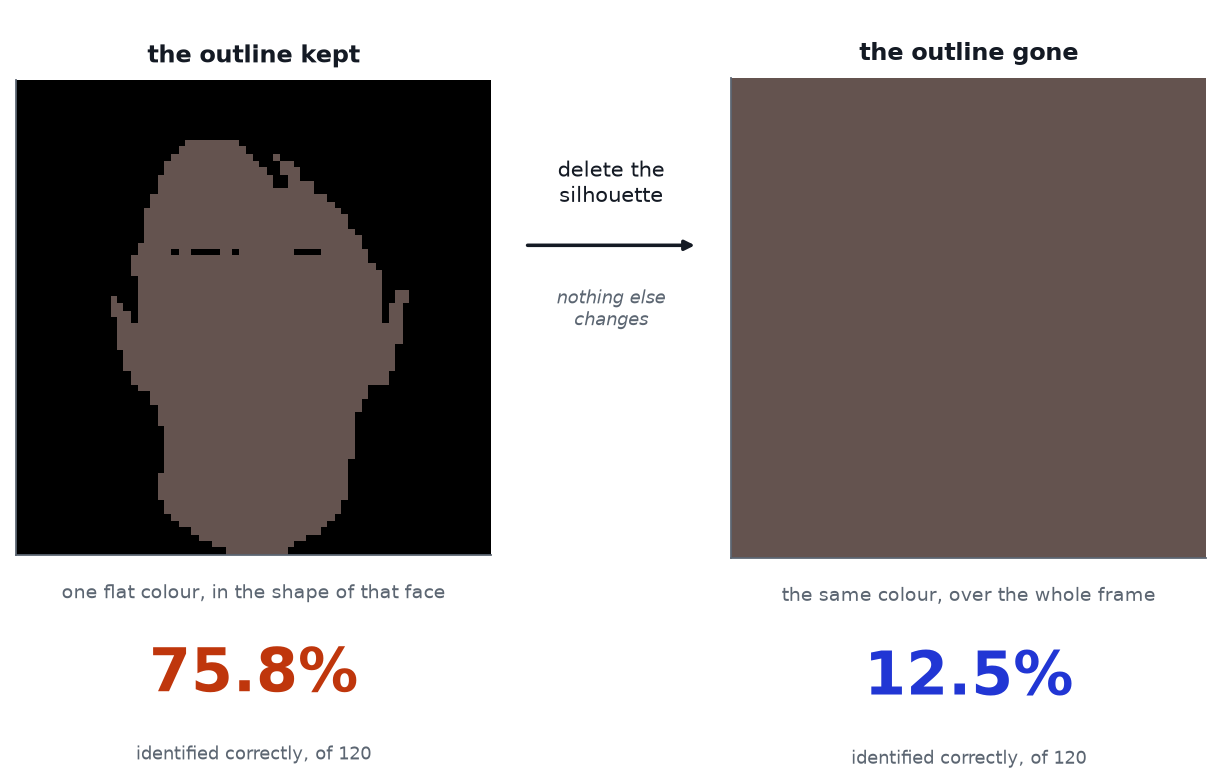
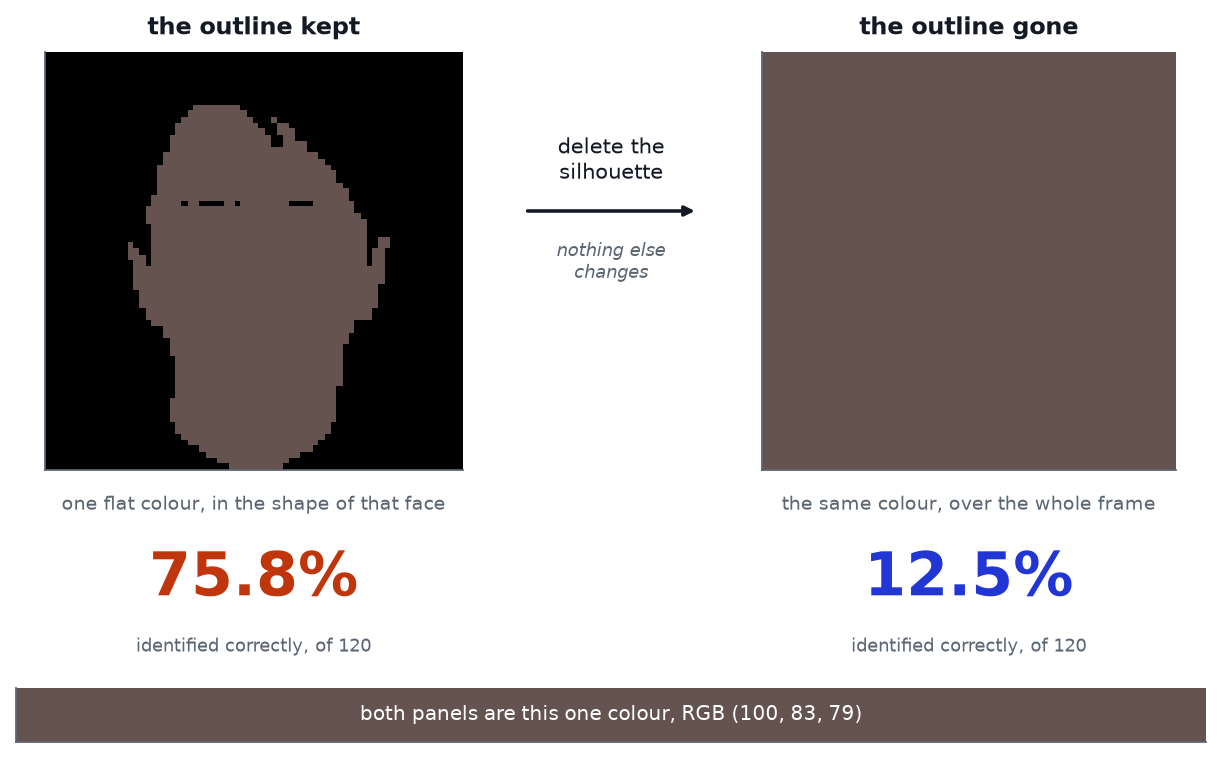
Show that Fig 5's two panels are the same colour
The caption said "the same colour, twice" and the figure did not look like it.
Both panels are in fact exactly RGB (100, 83, 79), identical to the integer;
what makes them look different is simultaneous contrast, since a patch
surrounded by black reads lighter and warmer than the same value filling a
frame.

The figure now carries an unbroken band of that colour across the full width
beneath both panels, labelled with the value, so the equality can be checked by
eye rather than taken on the caption's word. The caption names the illusion
instead of leaving a reader to conclude the figure is wrong.

diff --git a/research/rppg-identity-tradeoff/index.html b/research/rppg-identity-tradeoff/index.html
@@ -467,10 +467,10 @@
       </p>
       <figure class="fig">
         <div class="fig-img">
-          <img src="fig/silhouette.png" width="1222" height="784" loading="lazy" decoding="async"
+          <img src="fig/silhouette.png" width="1222" height="758" loading="lazy" decoding="async"
                alt="Two panels side by side. Left, labelled the outline kept: a single flat brown colour in the silhouette of a face, complete with gaps where the eyes and eyebrows are, on black; underneath it, 75.8 per cent identified correctly. Right, labelled the outline gone: the identical brown filling the entire square; underneath it, 12.5 per cent. An arrow between them reads delete the silhouette, nothing else changes." />
         </div>
-        <figcaption>Fig 5. The same colour, twice. The only difference between these two images is whether the shape of the person's face is still drawn around it, and that difference is worth 75.8% versus 12.5%. Every pixel value in the left panel is either the person's average skin colour or black; the identifying information is in <em>where</em> the boundary between them falls.</figcaption>
+        <figcaption>Fig 5. The same colour, twice. The only difference between these two images is whether the shape of the person's face is still drawn around it, and that difference is worth 75.8% versus 12.5%. If the two browns look different to you, they are not: the band underneath is that one colour running straight across, and both panels are drawn from it. A patch surrounded by black reads lighter and warmer than the identical value filling a frame, which is worth noticing in an article about what a model can still recover after your eyes have given up. Every pixel in the left panel is either that colour or black; the identifying information is in <em>where</em> the boundary between them falls.</figcaption>
       </figure>
       <p>
         That is the actual finding, and it is a more useful one than the tidy curve I set
